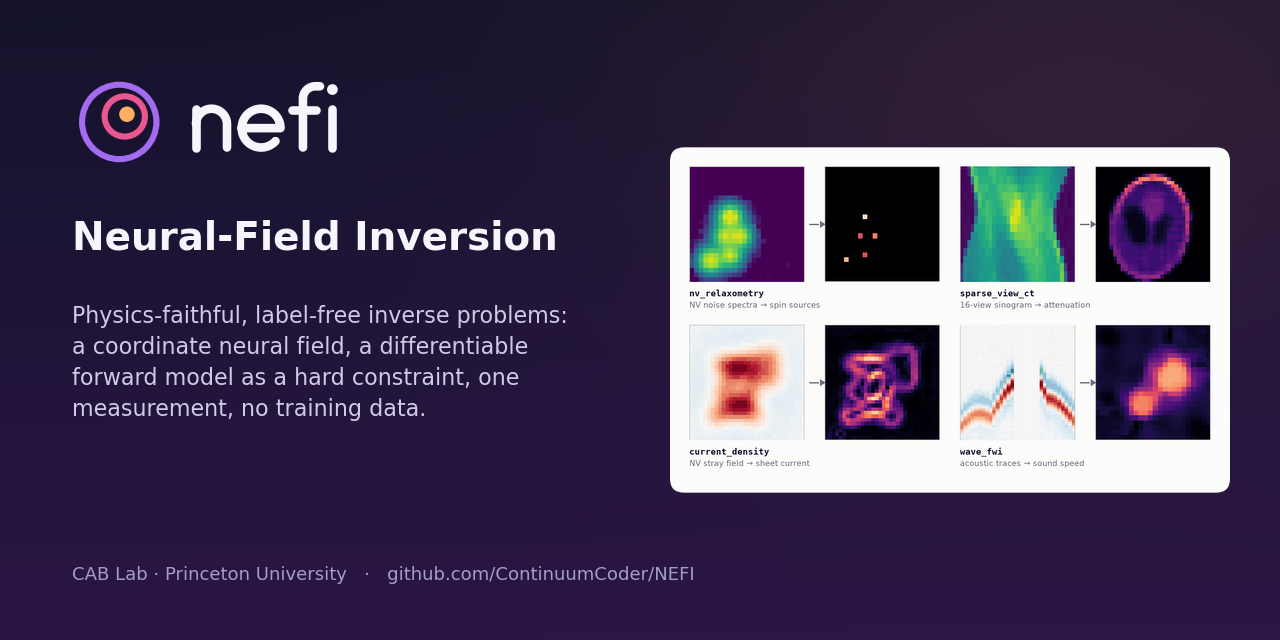
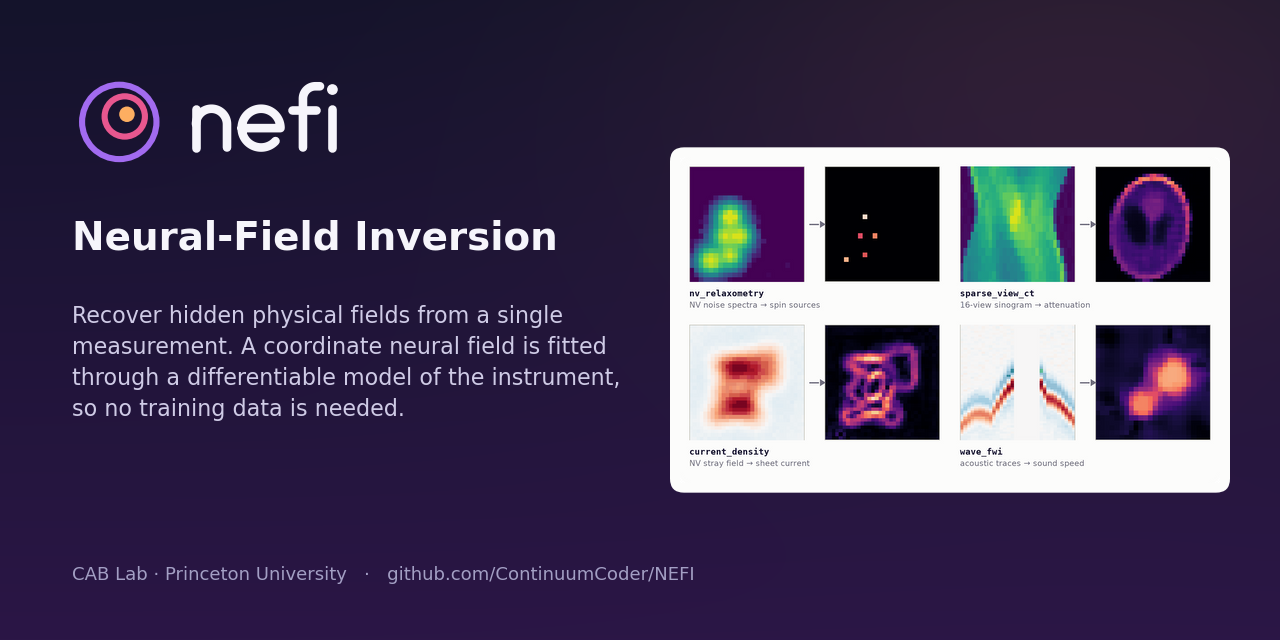
Support typer 0.27, enable GitHub Pages on first deploy, link the lab site and smooth the summary copy

Changed region(s): [[0.0625, 0.4688, 0.4688, 0.6562]]

diff --git a/docs/overrides/home.html b/docs/overrides/home.html
@@ -13,7 +13,7 @@
       <div class="nf-hero__copy">
         <p class="nf-hero__eyebrow">
           {% include ".icons/nefi/mark.svg" %}
-          Neural-Field Inversion &middot; CAB Lab, Princeton University
+          Neural-Field Inversion &middot; <a href="https://cablab.scholar.princeton.edu" class="nf-hero__lab">CAB Lab, Princeton University</a>
         </p>
         <h1 class="nf-hero__title">
           Physics-faithful inverse problems,

diff --git a/docs/stylesheets/extra.css b/docs/stylesheets/extra.css
@@ -190,6 +190,18 @@
   align-items: center;
   padding: 3rem 0.8rem 2.2rem;
 }
+.nf-hero__lab {
+  color: inherit;
+  text-decoration: underline;
+  text-decoration-color: color-mix(in srgb, currentColor 35%, transparent);
+  text-underline-offset: 0.2em;
+}
+.nf-hero__lab:hover,
+.nf-hero__lab:focus-visible {
+  color: inherit;
+  text-decoration-color: currentColor;
+}
+
 .nf-hero__eyebrow {
   display: inline-flex;
   align-items: center;

diff --git a/nefi/cli.py b/nefi/cli.py
@@ -104,6 +104,12 @@ class RunSpec:
     smoke: str | None = None
 
 
+CLI_DESCRIPTION = (
+    "nefi recovers hidden physical fields from a single measurement, with a differentiable model "
+    "of the instrument and no training data."
+)
+
+
 def config_dirs() -> list[Path]:
     """Directories searched for ``<instance>_smoke.yaml`` and listed by ``nefi list configs``."""
     dirs = []
@@ -1263,7 +1269,7 @@ def build_parser():
 
     p = argparse.ArgumentParser(
         prog="nefi",
-        description="nefi — Neural-Field Inversion: physics-faithful, label-free inverse problems.",
+        description=CLI_DESCRIPTION,
     )
     p.add_argument("--version", action="version", version=f"nefi {nefi.__version__}")
     sub = p.add_subparsers(dest="command", metavar="COMMAND")
@@ -1313,9 +1319,25 @@ def _main_argparse(argv: list[str]) -> int:
 def _typer_available() -> bool:
     try:
         import typer  # noqa: F401
+        from typer.main import get_command  # noqa: F401
     except ImportError:
         return False
     return True
+
+
+def _typer_click():
+    """The click implementation typer runs on.
+
+    typer < 0.27 builds on the standalone ``click`` package; from 0.27 on it ships its own copy as
+    ``typer._click`` and no longer depends on ``click``. The exceptions a command raises come from
+    whichever of the two typer imported, so resolve the module through ``typer.main``.
+    """
+    import typer.main as typer_main
+
+    module = getattr(typer_main, "click", None) or getattr(typer_main, "_click", None)
+    if module is None:  # pragma: no cover - unknown layout: try the standalone package
+        import click as module
+    return module
 
 
 def _typer_callback(cmd: Command):
@@ -1357,7 +1379,7 @@ def build_typer_app():
     import typer
 
     kw: dict[str, Any] = {
-        "help": "nefi — Neural-Field Inversion: physics-faithful, label-free inverse problems.",
+        "help": CLI_DESCRIPTION,
         "add_completion": False,
         "no_args_is_help": True,
     }
@@ -1385,18 +1407,21 @@ def build_typer_app():
 
 
 def _main_typer(argv: list[str]) -> int:
-    import click
+    import typer
     from typer.main import get_command
 
+    click = _typer_click()
     command = get_command(build_typer_app())
     try:
         rv = command.main(args=argv, prog_name="nefi", standalone_mode=False)
     except click.ClickException as e:
         e.show()
         return int(e.exit_code)
-    except click.exceptions.Abort:
+    except typer.Abort:
         print("Aborted!", file=sys.stderr)
         return 1
+    except typer.Exit as e:
+        return int(getattr(e, "exit_code", 0) or 0)
     return int(rv or 0)
 
 

diff --git a/tools/build_brand_assets.py b/tools/build_brand_assets.py
@@ -213,10 +213,10 @@ def social_card(path: Path, hero: Path) -> None:
     ax.text(
         72,
         305,
-        "Physics-faithful, label-free inverse problems:\n"
-        "a coordinate neural field, a differentiable\n"
-        "forward model as a hard constraint, one\n"
-        "measurement, no training data.",
+        "Recover hidden physical fields from a single\n"
+        "measurement. A coordinate neural field is fitted\n"
+        "through a differentiable model of the instrument,\n"
+        "so no training data is needed.",
         fontsize=16,
         va="top",
         linespacing=1.45,

diff --git a/nefi/__init__.py b/nefi/__init__.py
@@ -1,7 +1,7 @@
-"""nefi — Neural-Field Inversion.
+"""nefi: Neural-Field Inversion.
 
-Physics-faithful, label-free inverse problems solved by per-measurement optimization of a
-coordinate neural field through a differentiable forward operator.
+nefi recovers hidden physical fields from a single measurement by optimizing a coordinate neural
+field through a differentiable forward operator of the instrument. No training data is needed.
 
 Quick start::
 

diff --git a/README.md b/README.md
@@ -6,8 +6,8 @@
 </p>
 
 <p align="center">
-  <b>Neural-Field Inversion</b>: physics-faithful, label-free inverse problems.<br>
-  A coordinate neural field is fitted through your instrument's physics, from a single measurement, with no training data.
+  <b>Neural-Field Inversion</b> recovers hidden physical fields from a single measurement and a differentiable model of the instrument.<br>
+  The physics is enforced exactly, a coordinate neural field represents the unknown, and no training data is needed.
 </p>
 
 <p align="center">
@@ -221,9 +221,9 @@ If you use nefi, please cite the papers it implements:
 
 ## License
 
-MIT © 2026 CAB Lab, Princeton University — see [LICENSE](LICENSE).
+MIT © 2026 [CAB Lab, Princeton University](https://cablab.scholar.princeton.edu). See [LICENSE](LICENSE).
 
 ## Acknowledgements
 
-nefi is developed and maintained by the **CAB Lab at Princeton University**. It generalizes the
+nefi is developed and maintained by the [CAB Lab at Princeton University](https://cablab.scholar.princeton.edu). It generalizes the
 lab's NeTMY and NeFTY papers into one library, and we thank the authors of both papers.

diff --git a/docs/index.md b/docs/index.md
@@ -2,8 +2,9 @@
 template: home.html
 title: nefi — Neural-Field Inversion
 description: >-
-  Physics-faithful, label-free inverse problems: a coordinate neural field, a differentiable
-  forward model as a hard constraint, one measurement, no training data.
+  nefi recovers hidden physical fields from a single measurement by fitting a coordinate neural
+  field through a differentiable model of the instrument. The physics is enforced exactly and no
+  training data is needed.
 hide:
   - navigation
   - toc
@@ -266,7 +267,7 @@ code. [Start the tutorials →](getting-started/index.md)
 
 ## Two papers, one library
 
-<p class="nf-intro">nefi generalizes two papers of the CAB Lab at Princeton University into one
+<p class="nf-intro">nefi generalizes two papers of the [CAB Lab at Princeton University](https://cablab.scholar.princeton.edu) into one
 reusable recipe. Both instances ship with paper-scale configurations.</p>
 
 <div class="nf-cols two" markdown>

diff --git a/docs/research/index.md b/docs/research/index.md
@@ -6,9 +6,9 @@ description: The research behind nefi — the NeTMY and NeFTY papers, the thesis
 
 # Research
 
-nefi is the software form of two papers from the CAB Lab at Princeton University. It keeps their
+nefi is the software form of two papers from the [CAB Lab at Princeton University](https://cablab.scholar.princeton.edu). It keeps their
 methods as defaults, their numbers as configuration fields, their explanations as diagnostics and
-their evaluation protocol as a benchmark harness — and generalizes the recipe to any
+their evaluation protocol as a benchmark harness, and generalizes the recipe to any
 differentiable instrument.
 
 <div class="grid cards" markdown>

diff --git a/docs/reference/license.md b/docs/reference/license.md
@@ -4,7 +4,7 @@ description: nefi is released under the MIT License by the CAB Lab, Princeton Un
 
 # License & citation
 
-nefi is developed by the **CAB Lab, Princeton University**, and released under the MIT License.
+nefi is developed by the [CAB Lab, Princeton University](https://cablab.scholar.princeton.edu) and released under the MIT License.
 
 ```text
 --8<-- "LICENSE"
